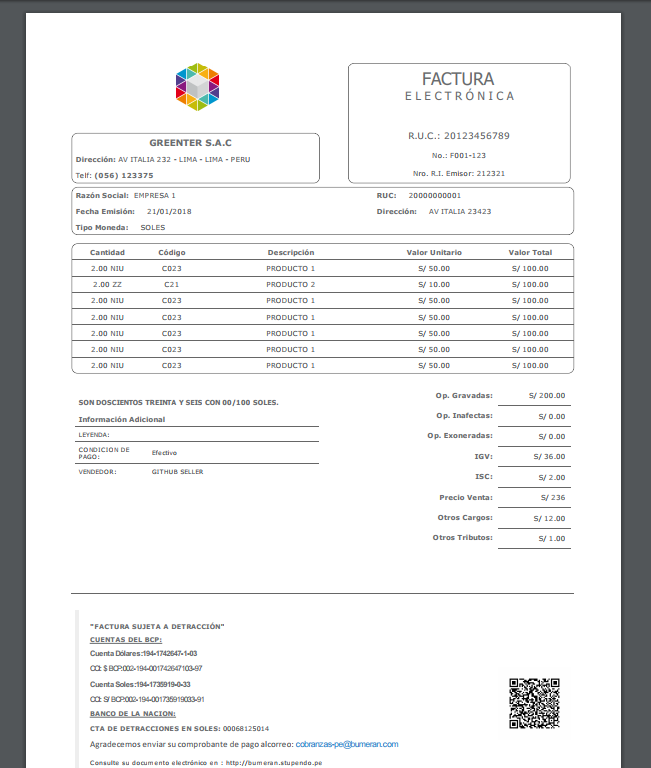
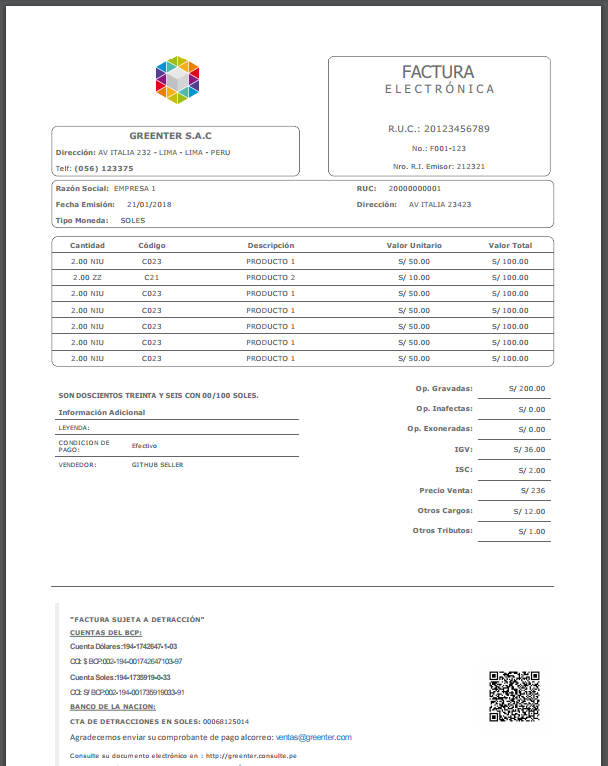
update footer

diff --git a/packages/htmltopdf/tests/Resources/invoice.html b/packages/htmltopdf/tests/Resources/invoice.html
@@ -398,10 +398,10 @@
             <o:p></o:p>
          </span>
         </p>
-        <span lang="ES-PE" style="font-size:11.0pt;line-height:107%;font-family:&quot;Calibri&quot;,&quot;sans-serif&quot;;mso-ascii-theme-font:minor-latin;mso-fareast-font-family:Calibri;mso-fareast-theme-font:minor-latin;mso-hansi-theme-font:minor-latin;mso-bidi-font-family:&quot;Times New Roman&quot;;mso-bidi-theme-font:minor-bidi;mso-ansi-language:ES-PE;mso-fareast-language:EN-US;mso-bidi-language:AR-SA">Agradecemos enviar su comprobante de pago alcorreo: <span style="font-size:10.0pt;line-height:107%;font-family:&quot;Arial&quot;,&quot;sans-serif&quot;;color:#263238"><a href="mailto:cobranzas-pe@bumeran.com" target="_blank">cobranzas-pe@bumeran.com</a></span></span><br>
+        <span lang="ES-PE" style="font-size:11.0pt;line-height:107%;font-family:&quot;Calibri&quot;,&quot;sans-serif&quot;;mso-ascii-theme-font:minor-latin;mso-fareast-font-family:Calibri;mso-fareast-theme-font:minor-latin;mso-hansi-theme-font:minor-latin;mso-bidi-font-family:&quot;Times New Roman&quot;;mso-bidi-theme-font:minor-bidi;mso-ansi-language:ES-PE;mso-fareast-language:EN-US;mso-bidi-language:AR-SA">Agradecemos enviar su comprobante de pago alcorreo: <span style="font-size:10.0pt;line-height:107%;font-family:&quot;Arial&quot;,&quot;sans-serif&quot;;color:#263238"><a href="mailto:cobranzas-pe@bumeran.com" target="_blank">ventas@greenter.com</a></span></span><br>
     </div>
     <div><span lang="ES-PE" style="font-size:11.0pt;line-height:107%;font-family:&quot;Calibri&quot;,&quot;sans-serif&quot;;mso-ascii-theme-font:minor-latin;mso-fareast-font-family:Calibri;mso-fareast-theme-font:minor-latin;mso-hansi-theme-font:minor-latin;mso-bidi-font-family:&quot;Times New Roman&quot;;mso-bidi-theme-font:minor-bidi;mso-ansi-language:ES-PE;mso-fareast-language:EN-US;mso-bidi-language:AR-SA"><br></span></div>
-    Consulte su documento electrónico en :&nbsp;http://bumeran.stupendo.pe
+    Consulte su documento electrónico en :&nbsp;http://greenter.consulte.pe
 </h6>
                                                                 <span style="font-size: 8pt">Representación Impresa de la FACTURA ELECTRÓNICA.</span>
                             </blockquote>
